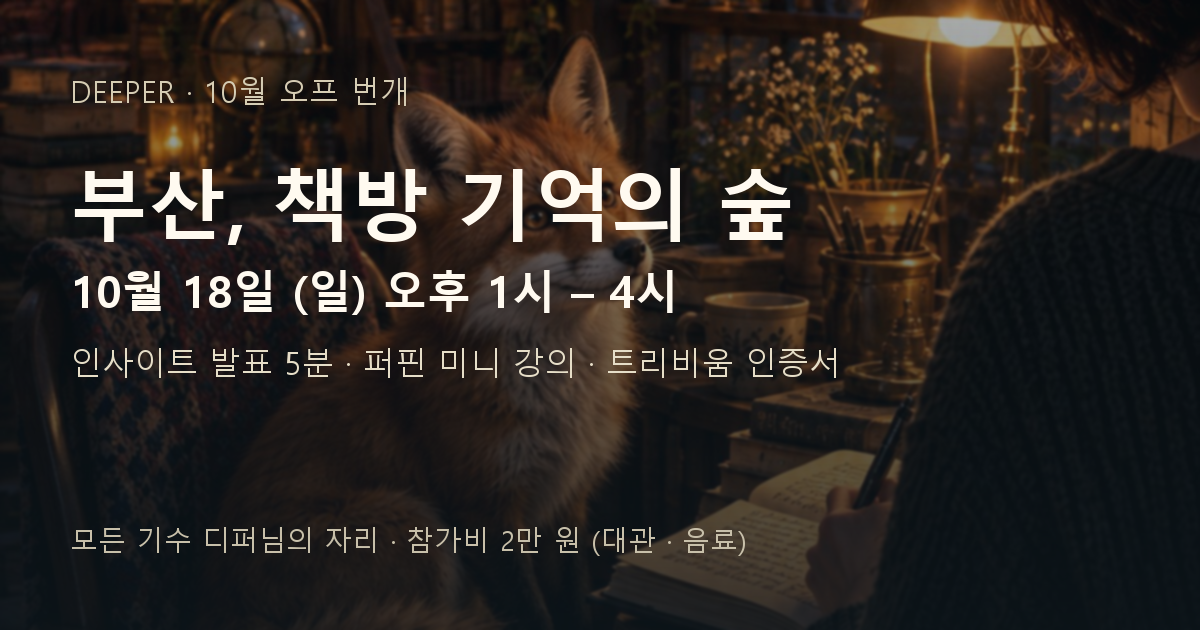
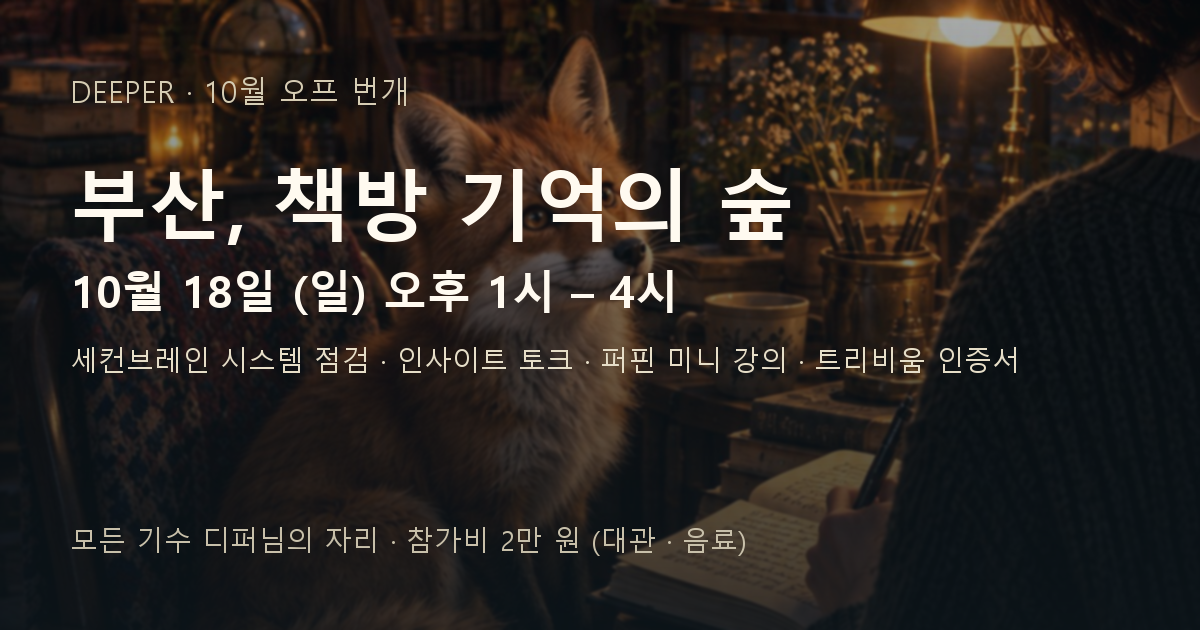
[salon] 부산 오프 안내 — 프로그램에 세컨브레인 시스템 점검·인사이트 토크(발행인 10/14) · OG 카드 재제작

Changed region(s): [[0.0617, 0.5429, 0.8633, 0.6032]]

diff --git a/invite/deeper_offline_busan_2026-10-18.html b/invite/deeper_offline_busan_2026-10-18.html
@@ -6,7 +6,7 @@
 <title>10월 디퍼 오프 — 부산, 책방 기억의 숲</title>
 <meta property="og:type" content="website">
 <meta property="og:title" content="10월 디퍼 오프 — 부산, 책방 기억의 숲">
-<meta property="og:description" content="10월 18일 (일) 오후 1시–4시 · 인사이트 발표 5분 · 퍼핀 미니 강의 · 트리비움 인증서 · 모든 기수 · 참가비 2만 원">
+<meta property="og:description" content="10월 18일 (일) 오후 1시–4시 · 세컨브레인 시스템 점검 · 인사이트 토크 · 퍼핀 미니 강의 · 트리비움 인증서 · 모든 기수 · 참가비 2만 원">
 <meta property="og:image" content="https://clbookslower.github.io/deeper-salon/invite/og-offline-busan-2026-10-18.png">
 <meta property="og:image:width" content="1200">
 <meta property="og:image:height" content="630">
@@ -50,7 +50,8 @@ ul{padding-left:18px;margin:0 0 12px}li{margin:4px 0;font-size:15.5px}
 
   <h2>이렇게 보내려고 합니다</h2>
   <ul>
-    <li><b>인사이트 발표</b> — 한 분 5분씩. 세컨브레인에서 꺼낸 것 하나면 됩니다.</li>
+    <li><b>세컨브레인 시스템 점검</b></li>
+    <li><b>인사이트 토크</b> — 한 분 5분씩. 세컨브레인에서 꺼낸 것 하나면 됩니다.</li>
     <li><b>퍼핀 미니 강의</b></li>
     <li><b>트리비움 인증서</b> — 문법, 논리, 수사의 긴 여정을 기쁘게 걸어주신 2기 디퍼님들께 깊은 감사를 드립니다. 수료를 진심으로 축하드립니다. 인증서는 그날 직접 전해드리고, 못 오시는 분께는 택배로 보내 드려요.</li>
   </ul>
